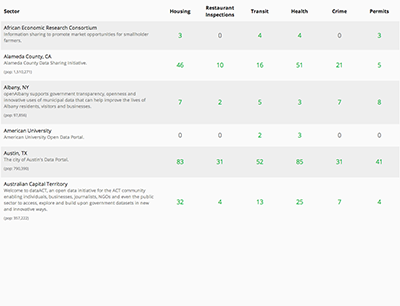
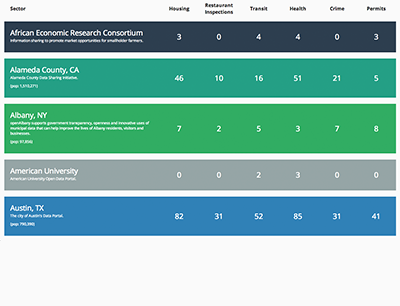
Updated census tile image and census colors.

diff --git a/styles/compressed/census.min.css b/styles/compressed/census.min.css
@@ -1,2 +1,2 @@
-.content{margin:60px auto 0;min-height:500px;padding:20px 0 40px;text-align:center;width:1280px}@media (max-width: 1280px){.content{width:100%}}.content a{color:white}.content td:first-child a{font-size:24px}.content table{margin:0 auto;text-align:left}.content td:first-child{width:40%}.content td:first-child,.content th:first-child{text-align:left}.content-row{border-bottom:20px solid #fafafa}.content-row:nth-child(11n+1){background-color:#2c3e50}.content-row:nth-child(11n+2){background-color:#16a085}.content-row:nth-child(11n+3){background-color:#27ae60}.content-row:nth-child(11n+4){background-color:#95a5a6}.content-row:nth-child(11n+5){background-color:#2980b9}.content-row:nth-child(11n+6){background-color:#8e44ad}.content-row:nth-child(11n+7){background-color:#f39c12}.content-row:nth-child(11n+8){background-color:#f1c40f}.content-row:nth-child(11n+9){background-color:#c0392b}.content-row:nth-child(11n+10){background-color:#7f8c8d}.content-row:nth-child(11n+11){background-color:#d35400}.content td,.content th{padding:20px;text-align:center}.content th{color:#222}.content p{color:white}@media (max-width: 1280px){.content p{display:none}}.content p.description{font-size:12px}.content p.population{font-size:12px}.content .c{text-align:center}.content-data{font-size:24px;width:10%}
+.content{margin:60px auto 0;min-height:500px;padding:20px 0 40px;text-align:center;width:1280px}@media (max-width: 1280px){.content{width:100%}}.content a{color:white}.content td:first-child a{font-size:24px}.content table{margin:0 auto;text-align:left}.content td:first-child{width:40%}.content td:first-child,.content th:first-child{text-align:left}.content-row{border-bottom:20px solid #fafafa}.content-row:nth-child(11n+2){background-color:#2c3e50}.content-row:nth-child(11n+3){background-color:#16a085}.content-row:nth-child(11n+4){background-color:#27ae60}.content-row:nth-child(11n+5){background-color:#95a5a6}.content-row:nth-child(11n+6){background-color:#2980b9}.content-row:nth-child(11n+7){background-color:#8e44ad}.content-row:nth-child(11n+8){background-color:#f39c12}.content-row:nth-child(11n+9){background-color:#f1c40f}.content-row:nth-child(11n+10){background-color:#c0392b}.content-row:nth-child(11n+11){background-color:#7f8c8d}.content-row:nth-child(11n+12){background-color:#d35400}.content td,.content th{padding:20px;text-align:center}.content th{color:#222}.content p{color:white}@media (max-width: 1280px){.content p{display:none}}.content p.description{font-size:12px}.content p.population{font-size:12px}.content .c{text-align:center}.content-data{font-size:24px;width:10%}
 /*# sourceMappingURL=census.min.css.map */

diff --git a/styles/census.scss b/styles/census.scss
@@ -52,61 +52,60 @@ $green-color: #0FBE4D;
     border-bottom: 20px solid #fafafa;
 }
 
-.content-row:nth-child(11n+1)
+.content-row:nth-child(11n+2)
 {
     background-color: #2c3e50;
 }
 
-.content-row:nth-child(11n+2)
+.content-row:nth-child(11n+3)
 {
     background-color: #16a085;
 }
 
-.content-row:nth-child(11n+3)
+.content-row:nth-child(11n+4)
 {
     background-color: #27ae60;
 }
 
-.content-row:nth-child(11n+4)
+.content-row:nth-child(11n+5)
 {
     background-color: #95a5a6;
 }
 
-.content-row:nth-child(11n+5)
+.content-row:nth-child(11n+6)
 {
     background-color: #2980b9;
 }
 
-.content-row:nth-child(11n+6)
+.content-row:nth-child(11n+7)
 {
     background-color: #8e44ad;
 }
 
-.content-row:nth-child(11n+7)
+.content-row:nth-child(11n+8)
 {
     background-color: #f39c12;
 }
 
-.content-row:nth-child(11n+8)
+.content-row:nth-child(11n+9)
 {
     background-color: #f1c40f;
 }
 
-.content-row:nth-child(11n+9)
+.content-row:nth-child(11n+10)
 {
     background-color: #c0392b;
 }
 
-.content-row:nth-child(11n+10)
+.content-row:nth-child(11n+11)
 {
     background-color: #7f8c8d;
 }
 
-.content-row:nth-child(11n+11)
+.content-row:nth-child(11n+12)
 {
     background-color: #d35400;
 }
-
 
 .content td,
 .content th
